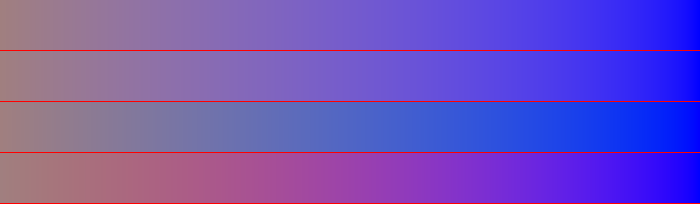
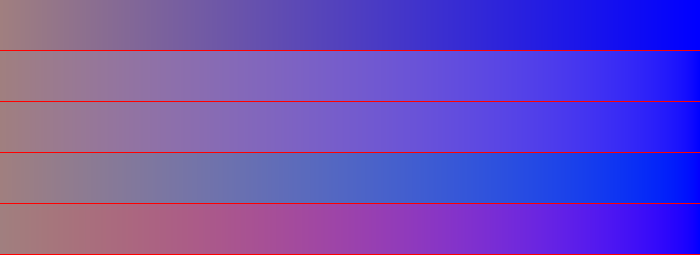
update image

diff --git a/README.md b/README.md
@@ -13,7 +13,7 @@ go mod download github.com/soypat/colorspace@latest
 ```
 
 ## Linear interpolation example
-Shown in each image are 4  for different color gradients generated with [`examples/lerp`](./examples/lerp/lerp.go):
+Shown in each image are 5 different color gradients generated with linear interpolation in each available colorspace. See [`examples/lerp`](./examples/lerp/lerp.go):
 1. Topmost: **sRGB**. This is the naive linear interpolation
 2. **Linear sRGB**. 
 3. **CIE XYZ**
